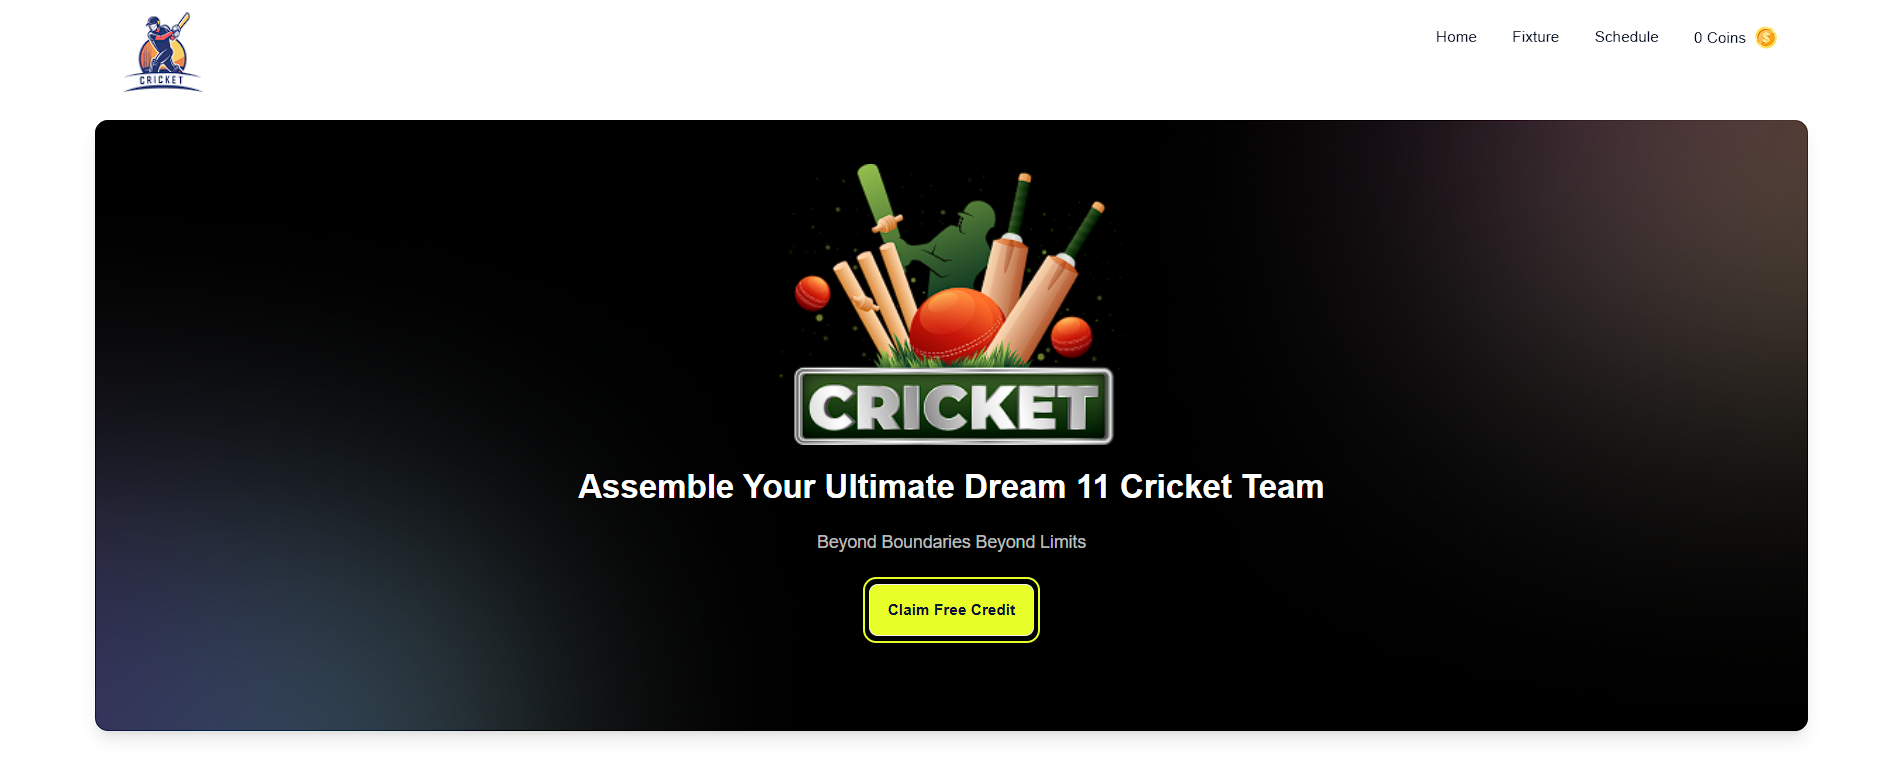
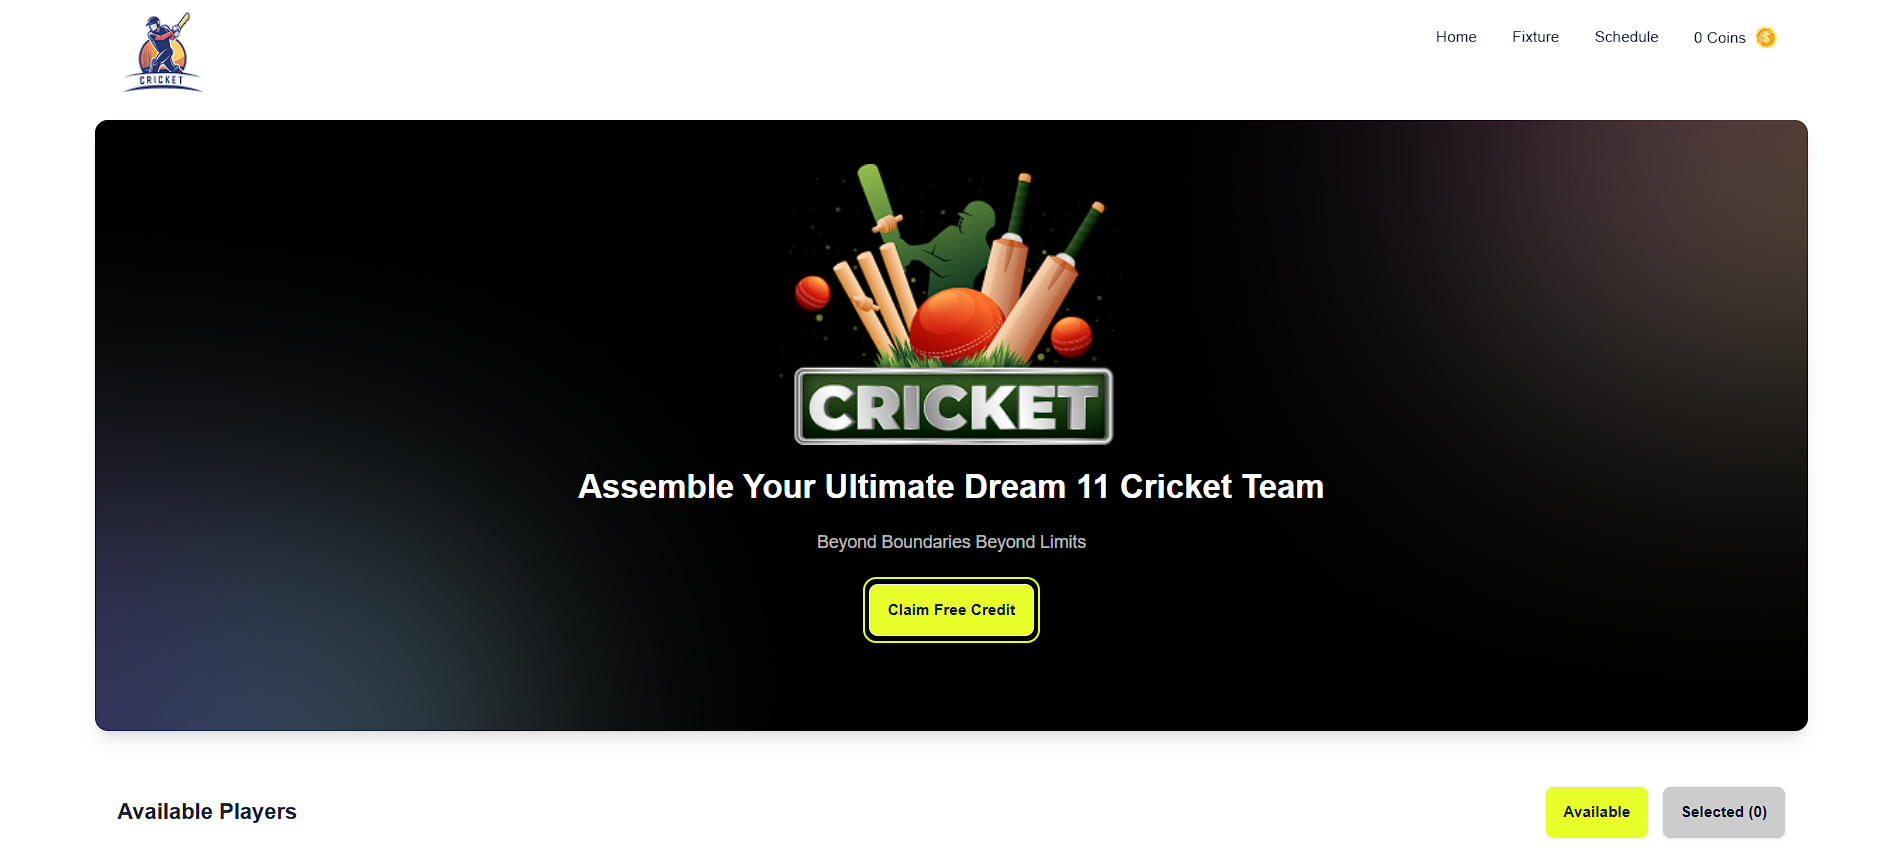
feedback server-side script

Changed region(s): [[0.0311, 0.0304, 0.9642, 0.9723], [0.7464, 0.0304, 0.9331, 0.0608]]

diff --git a/index.html b/index.html
@@ -552,7 +552,7 @@
     <section id="feedback" class="mb-12" data-aos="fade-up">
         <div class="container mx-auto px-4 py-10">
             <h2 class="text-3xl font-bold mb-4 text-blue-500 dark:text-orange-500">Feedback</h2>
-            <form action="mailto:md.daf001@gmail.com" method="post" enctype="text/plain" class="space-y-4">
+            <form action="contact.php" method="post" class="space-y-4">
                 <div>
                     <label for="name" class="block text-md font-medium text-gray-700 dark:text-gray-300">Name</label>
                     <input type="text" id="name" name="name" required

diff --git a/contact.php b/contact.php
@@ -1,0 +1,54 @@
+<?php
+// Check if the form was submitted using POST
+if ($_SERVER["REQUEST_METHOD"] == "POST") {
+    // Sanitize and validate the form data
+
+    // Get and clean the name
+    $name = strip_tags(trim($_POST["name"]));
+    $name = str_replace(array("\r", "\n"), array(" ", " "), $name);
+
+    // Get and sanitize the email address
+    $email = filter_var(trim($_POST["email"]), FILTER_SANITIZE_EMAIL);
+
+    // Get and trim the message
+    $message = trim($_POST["message"]);
+
+    // Validate the inputs
+    if (empty($name) || empty($message) || !filter_var($email, FILTER_VALIDATE_EMAIL)) {
+        // If validation fails, send a 400 (Bad Request) response
+        http_response_code(400);
+        echo "Please complete the form correctly and try again.";
+        exit;
+    }
+
+    // Set the recipient email address.
+    // Replace with your actual email address.
+    $recipient = "your_email@example.com";
+
+    // Create the email subject.
+    $subject = "New Contact Message from $name";
+
+    // Build the email content.
+    $email_content = "Name: $name\n";
+    $email_content .= "Email: $email\n\n";
+    $email_content .= "Message:\n$message\n";
+
+    // Build the email headers.
+    $email_headers = "From: $name <$email>";
+
+    // Send the email.
+    if (mail($recipient, $subject, $email_content, $email_headers)) {
+        // Set a 200 (OK) response code and output success message.
+        http_response_code(200);
+        echo "Thank you! Your message has been sent.";
+    } else {
+        // Set a 500 (Internal Server Error) response code and output error message.
+        http_response_code(500);
+        echo "Oops! Something went wrong, and we couldn't send your message.";
+    }
+} else {
+    // Not a POST request, set a 403 (Forbidden) response code.
+    http_response_code(403);
+    echo "There was a problem with your submission. Please try again.";
+}
+?>
